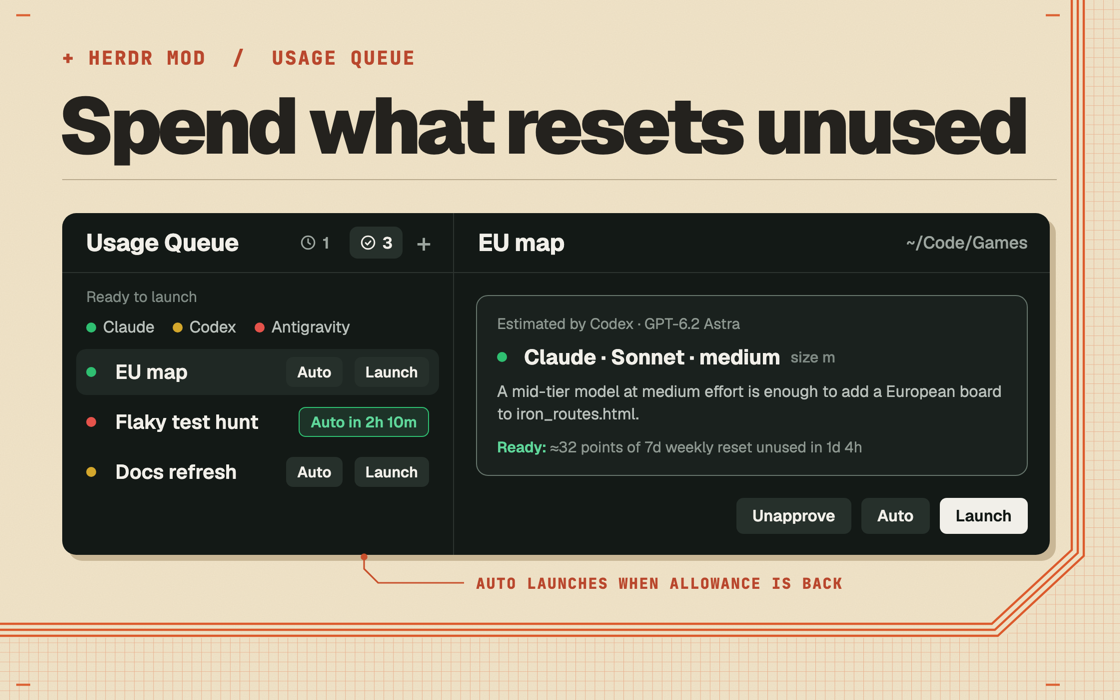
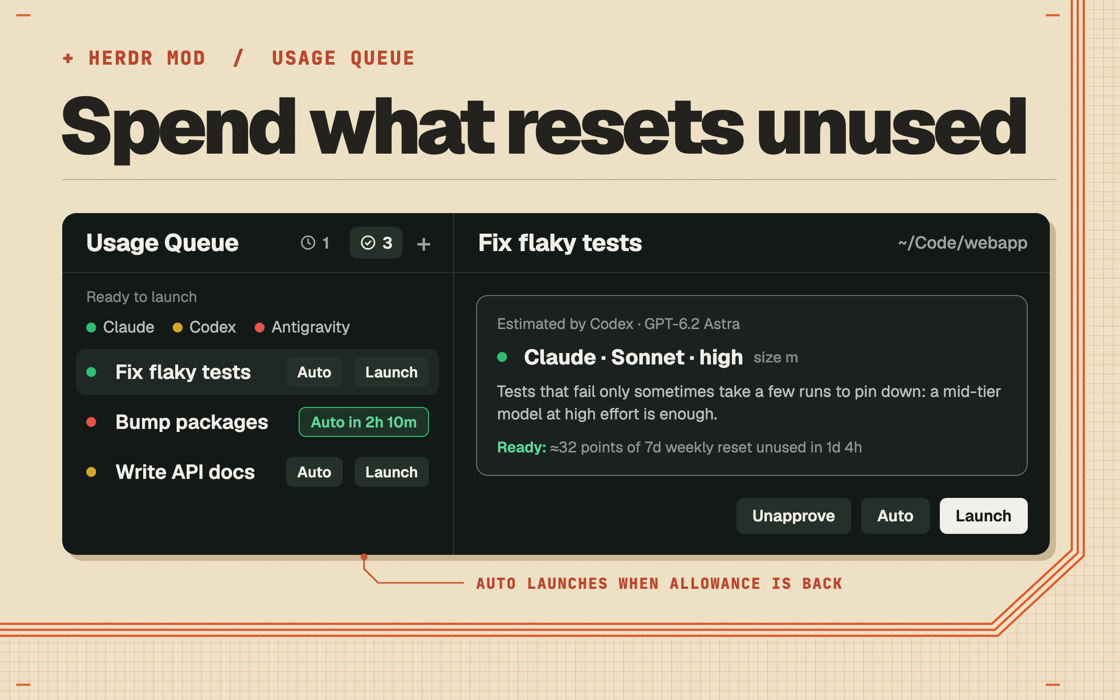
Add the Herdr recipe and a new gallery preview
RECIPE.md describes the mod for herdr.dev (what you see, how it behaves,
what it's built from, what to watch out for, and how to tell it works). The
preview's example job is now Fix flaky tests, which needs no explaining.

diff --git a/herdr-app/preview/preview.html b/herdr-app/preview/preview.html
@@ -42,8 +42,8 @@
   .row { display: flex; align-items: center; gap: 12px; height: 46px; padding: 0 10px; border-radius: 10px;
     font-size: 20px; font-weight: 600; }
   .row.hl { background: #1f2824; }
-  .row .name { flex: 1; white-space: nowrap; }
-  .btn { height: 30px; padding: 0 11px; display: flex; align-items: center; border-radius: 7px; background: #26302b;
+  .row .name { flex: 1; min-width: 0; white-space: nowrap; overflow: hidden; text-overflow: ellipsis; }
+  .btn { flex: none; white-space: nowrap; height: 30px; padding: 0 11px; display: flex; align-items: center; border-radius: 7px; background: #26302b;
     font-size: 15px; font-weight: 600; color: #f1efe9; }
   .btn.dim { color: #6d7771; }
   .btn.auto { background: #1d3328; color: #5fd69a; border: 1px solid #2fbf71; }
@@ -105,17 +105,17 @@
       <span><i class="dot g"></i>Claude</span><span><i class="dot y"></i>Codex</span><span><i class="dot r"></i>Antigravity</span>
     </div>
     <div class="rows">
-      <div class="row hl"><i class="dot g"></i><span class="name">EU map</span><span class="btn">Auto</span><span class="btn">Launch</span></div>
-      <div class="row"><i class="dot r"></i><span class="name">Flaky test hunt</span><span class="btn auto" id="auto">Auto in 2h 10m</span></div>
-      <div class="row"><i class="dot y"></i><span class="name">Docs refresh</span><span class="btn">Auto</span><span class="btn">Launch</span></div>
+      <div class="row hl"><i class="dot g"></i><span class="name">Fix flaky tests</span><span class="btn">Auto</span><span class="btn">Launch</span></div>
+      <div class="row"><i class="dot r"></i><span class="name">Bump packages</span><span class="btn auto" id="auto">Auto in 2h 10m</span></div>
+      <div class="row"><i class="dot y"></i><span class="name">Write API docs</span><span class="btn">Auto</span><span class="btn">Launch</span></div>
     </div>
   </div>
   <div class="pane right">
-    <div class="head rhead"><div class="title">EU map</div><div class="route">~/Code/Games</div></div>
+    <div class="head rhead"><div class="title">Fix flaky tests</div><div class="route">~/Code/webapp</div></div>
     <div class="box">
       <div class="rec">Estimated by Codex · GPT-6.2 Astra</div>
-      <div class="choice"><i class="dot g"></i>Claude · Sonnet · medium <span class="size">size m</span></div>
-      <div class="why">A mid-tier model at medium effort is enough to add a European board to iron_routes.html.</div>
+      <div class="choice"><i class="dot g"></i>Claude · Sonnet · high <span class="size">size m</span></div>
+      <div class="why">Tests that fail only sometimes take a few runs to pin down: a mid-tier model at high effort is enough.</div>
       <div class="state"><b>Ready:</b> ≈32 points of 7d weekly reset unused in 1d 4h</div>
     </div>
     <div class="actions"><span class="btn">Unapprove</span><span class="btn">Auto</span><span class="btn primary">Launch</span></div>

diff --git a/herdr-app/RECIPE.md b/herdr-app/RECIPE.md
@@ -1,0 +1,155 @@
+# Usage Queue
+
+Queue coding-agent jobs in the sidebar and run them on whichever subscription has allowance to
+spare. A big model recommends the model and thinking effort for each job; you approve it, then
+click **Launch**, or **Auto** to have it launch by itself once there's allowance. Each job runs
+in a new git worktree, branched from the repo's latest commit on its remote, in a background
+space. Allowance comes from [Usage Monitor](https://github.com/EMRahman/herdr-usage-monitor).
+
+![Usage Queue](preview.png)
+
+## What you see
+
+- **A sidebar block** below the Spaces / Agents (/ Context) lists, above Saved Prompts when
+  there is one. It's a weighted share of the sidebar (`weight: 0.35`, `min: 90`), so it resizes
+  like the lists. `chrome` background, 1px `border` line above.
+- **Header**, 34px, 16px left padding, 8px right: `Usage Queue` at 11.5px medium in `dim`,
+  filling the row; then two view icons and `+`:
+  - **Pending Launch Approval**: `mods/workspace-chrome/clock.svg`, 14px, and its count.
+  - **Ready to Launch**: `mods/workspace-chrome/circle-check.svg`, 14px, and its count.
+
+  Each is 26px tall, 8px side padding, 6px gap, radius 6, count at 11.5px medium; the chosen
+  one on `selected` with `foreground`, the other `muted` (a zero count in `dim`). The tooltip
+  names the view. `+` is a 24px square, radius 6, `plus.svg` at 14px in `dim` (`hover` behind
+  it): **Add a job**, or "continue your draft" when one is saved.
+- **Below the header**, 16px side padding, 11px `dim`: "Pending launch approval" or "Ready to
+  launch". In Ready to Launch, when any job is on Auto, a "Pause auto" switch at the right
+  (`dim`, `foreground` on hover); while paused, "Paused · resume" in the yellow light colour.
+- **Lights**, 16px side padding, 12px apart: one per coding agent that has a reading (Claude,
+  Codex, Antigravity): an 8px dot and its name at 11.5px in `muted`. Hover: the agent's verdict
+  and each of its pools' reasons. Fixed colours, as Usage Monitor's: green `#2fbf71`, yellow
+  `#d4a72c`, red `#e5534b`. With no readings, one line instead: "Reading allowance…" or the
+  error.
+- **Rows**, 8px side padding, scrolling: 28px tall, radius 7, 8px gaps, `hover` behind them. A
+  7px dot (the job's route's light, else the best of its agents'), the job's title at 12.5px in
+  `foreground` (cut with `…`), and on the right:
+  - **Pending**: "Estimate", "Review" (an estimate or a pinned model is in), "Failed" in red, or
+    a spinner (`.frames`) while estimating; 11.5px.
+  - **Ready**: two buttons, 22px tall, 7px side padding, radius 5, 11.5px medium on `raised`:
+    **Auto** and **Launch**. Launch is `dim` and does nothing on red. A job on Auto shows one
+    highlighted button instead, `accent` text and border on `selected`: "Auto in 2h 10m" (the
+    time to the next reset), "Auto now", or "Paused".
+  - Job files that can't be read show as `dim` rows with a red dot and the error.
+  - Under Ready, a "Launched" heading (11px medium `dim`) and the last five launched jobs in
+    `muted` with how long ago.
+- **Narrow sidebar** (under 160px): only the two view icons, stacked.
+- **The job dialog** (580px, `popover`), opened by clicking a row: the title (15px semibold),
+  repo · agents · priority · file, where it starts from ("the remote's latest default branch
+  (fetched), taken when it launches"), and the prompt in a scrolling box. Then:
+  - **1 · Estimate**: the big models that can run an estimate, each a 30px row with its light,
+    name and reason, the suggested one marked "Suggested" in green; red ones at half opacity
+    and not clickable. "Estimate with …" runs it; while it runs, a spinner and the seconds.
+    **Show prompt** shows what it sends; after a run, **Show reply** (the raw reply and the
+    CLI's errors) and **Open log**. A failure shows in red.
+  - **2 · Proposal**: one card per agent from the estimate (light, agent · model · effort,
+    size, "recommended", the reason, and its allowance), and Model and Effort chips (24px,
+    radius 6) for the chosen one.
+  - Footer: **Delete job** (red text), then **Approve**; for an approved job, **Unapprove**,
+    **Auto** (or **Cancel Auto**) and **Launch**.
+- **The add dialog** (560px): Title, Prompt (150px), Repository (the focused pane's folder, or
+  **Choose…**), agent chips (not-installed ones marked), Priority chips (1 high, 2 normal,
+  3 low), **Clear** when anything is typed, **Close** and **Add to queue** (⌘↵).
+
+## How it behaves
+
+- **Readings**: every 60s the sidebar copy runs Usage Monitor's `bridge.js --cached` (Bun) and
+  judges each pool (a provider account, or an Antigravity model group):
+  - **Red (Not yet)**: any window at or below its reserve (5h: 25%, weekly: 15%, daily: 15%,
+    monthly: 10%), less than 5 points above it, or a reading older than twice the provider's
+    refresh interval plus 5 minutes.
+  - **Green (Ready)**: the smallest "spare" across windows that run on a clock (% left minus
+    % of time left) is 20 or more, or the binding reset is under an hour away and 5 or more
+    would be lost.
+  - **Yellow (Open)**: anything else above the reserve.
+
+  While any job is on Auto it runs the bridge without `--cached`, so readings stay fresh even
+  when Usage Monitor's readout isn't polling; the bridge still asks providers only on its own
+  schedule (3 / 15 / 60 min by activity, and just after a reset).
+- **Jobs** are `~/.config/herdr-app/usage-queue/jobs/*.json`; a folder watch picks up new and
+  edited ones at once. Approval stores a hash of the file: editing it sends the job back to
+  Pending Launch Approval.
+- **Estimate**: one-shot, read-only, in the job's repo, with the chosen big model at high
+  effort: `claude -p --permission-mode plan --output-format json`, `codex exec --sandbox
+  read-only --ephemeral`, or `agy --mode plan --output-format json --print=<prompt>`. The
+  prompt carries the job, the repo's file list (`git ls-files`, first 150) and the top 40
+  lines of its README, the agents' models and efforts, and the lights, and asks for one JSON
+  object. Unknown agents, models and efforts in the answer are dropped. Each run is logged to
+  `usage-queue/estimates/<job>-<time>.txt`. The proposal is the estimate's route with the
+  greenest, most urgent pool; ties go to the estimator's recommendation.
+- **Launch**: `git fetch` the remote, then `git worktree add -b queue/<job>-<time>` under
+  Herdr's `worktrees.directory` (default `~/.herdr/worktrees`) at `<remote>/<default branch>`
+  (a job's `"base"` can say `"local"` or a branch). No remote, or a failed fetch: the local
+  HEAD, with a warning. Then `space.new {folder, argv, task: <prompt>, focus: false}`: the
+  agent starts with the prompt as its first message and shows in Spaces, Agents and Context
+  like any other. A notification says where it started (`origin/main @ 1a2b3c4`).
+- **Auto**: with allowance now (light not red), the same as Launch. Otherwise the job waits;
+  each minute the queue launches Auto jobs whose light has left red, by priority, at most one
+  per pool, and none on a pool something launched on in the last 10 minutes. Never on red.
+- **Draft**: the add form is kept in memory and in `usage-queue/draft.json` (half a second after
+  typing stops, and when it closes), so Esc never loses it.
+- **History**: every event (added, estimated, approved, scheduled, launched, …) is appended to
+  `usage-queue/history/<day>.jsonl`; current state is `usage-queue/state.json`.
+
+## Built from
+
+- **Layout**: `{"id": "usage-queue", "type": "block", "size": {"weight": 0.35}, "min": 90,
+  "content": {"mod": "usage-queue"}}`, inserted right after the `sidebar-lists` column (else
+  after `agents`, else before `usage-monitor` or `sidebar-footer`). `herdr-app/install.ts` does
+  it in the layout on screen, or `--layout <name>`; Herdr's own layouts are refused.
+- **`mods/usage-queue/`**: `mod.json` (`place: "none"`); `main.js` (the view: sidebar, job
+  dialog and add dialog by `props().dialog`); `rule.js` (pools and lights from the bridge
+  report); `queue.js` (job files, the lists, choices, what Auto launches); `catalog.js`
+  (agents, models, efforts, launch and estimate commands; `usage-queue/catalog.json`
+  overrides any agent by id); `estimate.js` (the prompt, parsing the answer); `launch.js`
+  (running estimates, the worktree and the launch); `base.js` (which commit to start from);
+  `store.js` (every file read and write); `time.js`.
+- **`herdr` functions**: `theme`, `props`, `shared` / `setShared` (a revision that redraws
+  every copy), `openOverlay` / `closeOverlay`, `run` (`space.new`, `space.select`), `exec`,
+  `readTextFile`, `writeTextFile`, `watchFolder`, `knownAgents`, `pickFolder`, `notify`,
+  `focused`, `panes`, `spaces`, `appHome`, `home`, `checking`; `fs/promises` and `crypto`.
+- **Programs it runs**: Bun (Usage Monitor's bridge, which reaches the providers' usage
+  endpoints), `git`, the agent CLIs (`claude`, `codex`, `agy`), and `open` for a log. It reads
+  only its own folder, Herdr's `settings.json`, Usage Monitor's mod folder and the jobs' repos.
+
+## Watch out
+
+- **Data lives outside the mod folder.** Herdr reloads a mod whenever a file in its folder
+  changes, so jobs, state and logs are in `~/.config/herdr-app/usage-queue/`.
+- **Dialogs lose their work when they close.** Estimates and launches are handed to the sidebar
+  copy, which outlives them; a dialog runs them itself only when there's no sidebar copy.
+- **A fixed-height block next to another one drags badly**: Herdr resizes the fixed block on a
+  line you drag. The queue is weighted and sits outside the lists column so its top line
+  moves as dragged.
+- **Headless estimators can't ask for permission.** Antigravity answers with nothing when a
+  command it tried is denied; that's why the prompt carries the repo's file list and says not
+  to run commands. `agy` also needs the prompt attached: `--print=<prompt>`.
+- **Setting a text field fires its change handler**: set the other fields before `set_value`.
+- Dates are formatted by hand: the runtime ignores `toLocaleString`'s options.
+- No brake yet: a launched job isn't stopped if its pool reaches the reserve, and the queue
+  doesn't detect when it's done. Agents still stop at permission prompts.
+- Needs Usage Monitor installed (its bridge), Bun, git, and at least one of the agent CLIs.
+
+## Done when
+
+- `herdr-app check herdr-app/mods/usage-queue` passes and `bun test` passes.
+- The block shows under the lists with a light per signed-in agent; hovering one shows each
+  pool's reason.
+- **+** adds a job; Esc keeps the draft and **+** brings it back.
+- A new file in `usage-queue/jobs/` shows in Pending Launch Approval within a second.
+- **Estimate** with a suggested big model fills the proposal; **Show reply** and **Open log**
+  show what came back.
+- **Approve** moves the job to Ready to Launch; editing its file moves it back.
+- **Launch** makes `queue/<job>-<time>` from `origin/<default branch>` and the agent appears in
+  a new space, in Agents, and in Context after its first answer.
+- **Auto** on a red job shows "Auto in …" and launches by itself after the reset; on a green
+  or yellow one it launches at once.

diff --git a/README.md b/README.md
@@ -8,7 +8,7 @@ Claude Code · Codex · Antigravity
 [![Herdr mod](https://img.shields.io/badge/Herdr-mod-2fbf71)](https://herdr.dev/gallery/?type=mods)
 [![Runs on Bun](https://img.shields.io/badge/runs%20on-Bun-f9f1e1)](https://bun.sh)
 
-![Usage Queue in the Herdr sidebar: jobs ready to launch with Auto and Launch buttons, a traffic light per coding agent, and a job's recommended model and effort](herdr-app/preview.png)
+![Usage Queue in the Herdr sidebar: three jobs ready to launch, one scheduled to launch by itself in 2h 10m, a traffic light per coding agent, and Fix flaky tests with its recommended model and effort](herdr-app/preview.png)
 
 Subscriptions reset their allowance on a clock, and whatever is left when a window resets is
 gone. Usage Queue holds jobs you'd like done, has a big model recommend the model and effort for
